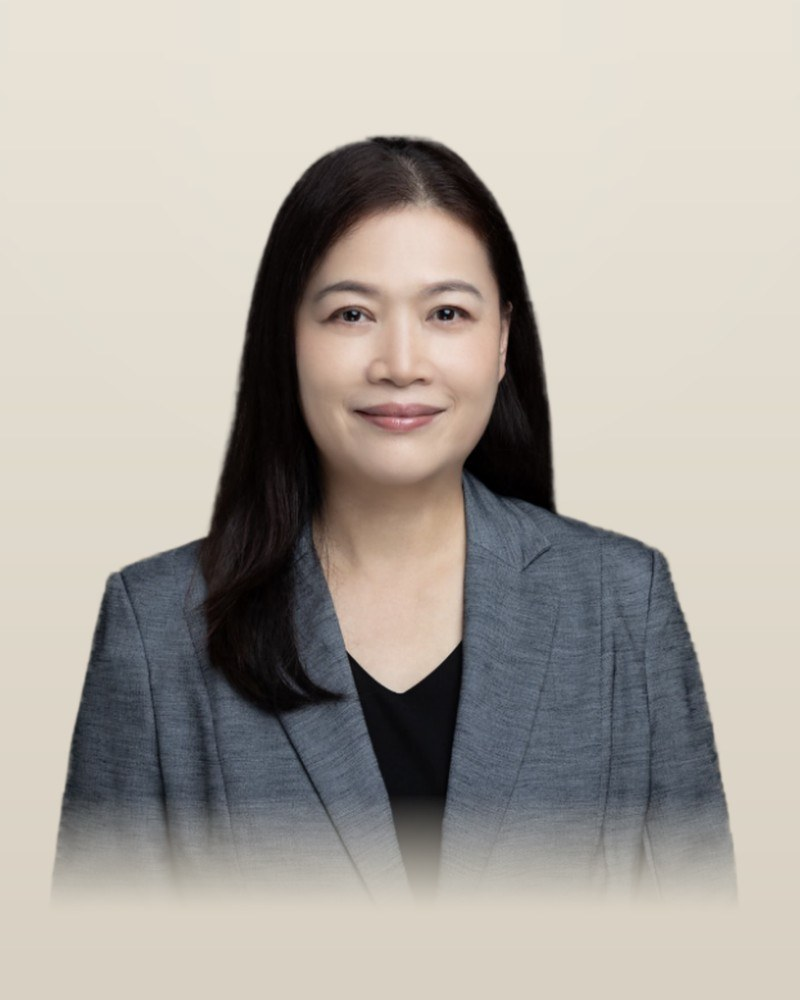
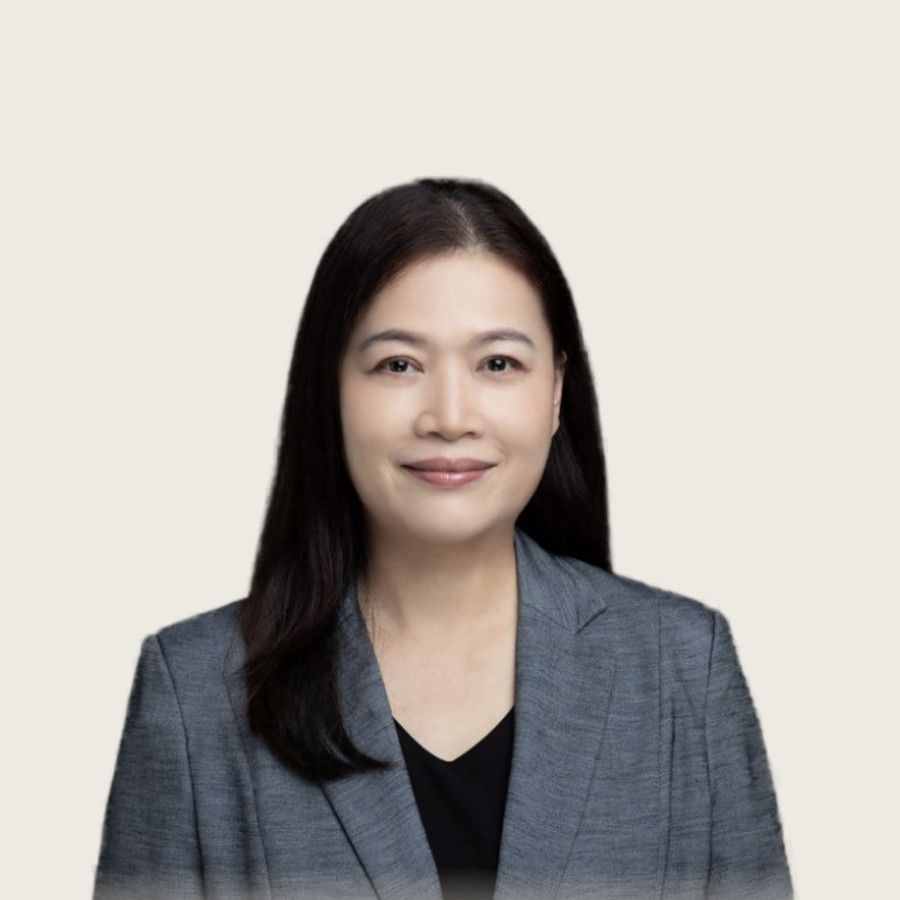
Team page: full roster as one unified set, grouped by region (#39)
* Add Amsterdam team + unify all team portraits into one set

Add Robbert-Jan, Leonard and Max (Amsterdam) to the roster, and bring the
whole team into a single cohesive treatment: every portrait is cut out of
its original (mismatched) background and placed on brand sand, with face
size and eye-line normalised so the grid reads as one set across Hong Kong
and Amsterdam. Photos drop into the existing /company TeamSection, which
groups by location automatically.

Claude-Session: https://claude.ai/code/session_012sUTwtPdH11qSoivRLDWgW

* Team: switch to circular avatars for a uniform roster

Round everyone the same way: swap the 4:5 portrait cards for face-centred
circular avatars (square source images, normalised face size and eye-line,
on brand sand with a subtle ring). The circle crop hides each person's
differing shoulders/crop, so the whole team reads as one tidy set.

Claude-Session: https://claude.ai/code/session_012sUTwtPdH11qSoivRLDWgW

* Team: add sales team, group by region, fix two circle crops

- Add Bo Gyi (Europe), Gino (Eastern Europe) and Oisin (United States),
  cut out and normalised on brand sand like the rest.
- Group the roster by sales region instead of office: Hong Kong,
  Netherlands, Europe, Eastern Europe, Barcelona, United States.
- Tighten the circle framing for Robbert-Jan and Leonard.

Still to add once photos arrive: Judith (Barcelona), Iris and Marieke
(Netherlands), Nancy (Europe), and Jasmijn (Asa Matcha, TBC). Sales-team
[…]

diff --git a/src/data/trust.ts b/src/data/trust.ts
@@ -31,9 +31,23 @@ export const TEAM: TeamMember[] = [
   { name: "Fannie", role: "Sourcing", photo: "/team/fannie.jpg", location: "Hong Kong" },
   { name: "Candy", role: "Partnerships", photo: "/team/candy.jpg", location: "Hong Kong" },
   { name: "Lucinda", role: "Quality control", photo: "/team/lucinda.jpg", location: "Hong Kong" },
-  // TODO (Leonard to supply): remaining team + Amsterdam / Los Angeles people,
-  // with better portraits. e.g.
-  // { name: "…", role: "…", photo: "/team/….jpg", location: "Amsterdam" },
+  { name: "Robbert-Jan", role: "Sales, consulting & strategy", photo: "/team/robbert-jan.jpg", location: "Netherlands" },
+  { name: "Leonard", role: "Digital strategy & operations", photo: "/team/leonard.jpg", location: "Netherlands" },
+  { name: "Max", role: "Sales & supply chain", photo: "/team/max.jpg", location: "Netherlands" },
+  { name: "Iris", role: "Sales", photo: "/team/iris.jpg", location: "Netherlands" },
+  { name: "Marieke", role: "Sales", photo: "/team/marieke.jpg", location: "Netherlands" },
+  { name: "Bo Gyi", role: "Sales", photo: "/team/bo-gyi.jpg", location: "Europe" },
+  { name: "Nancy", role: "Sales", photo: "/team/nancy.jpg", location: "Europe" },
+  { name: "Gino", role: "Sales", photo: "/team/gino.jpg", location: "Eastern Europe" },
+  { name: "Judith", role: "Sales", photo: "/team/judith.jpg", location: "Barcelona" },
+  { name: "Oisin", role: "Sales", photo: "/team/oisin.jpg", location: "United States" },
+  // Jasmijn (Asa Matcha) is held pending confirmation whether she belongs on
+  // the SFP team page. Sales-team roles are placeholders ("Sales") pending
+  // real titles.
+  //
+  // All portraits share one treatment: cut out and placed on brand sand, with
+  // face size and eye-line normalised, so the roster reads as one set. The
+  // section groups by `location`; LOCATION_ORDER in TeamSection sets the order.
 ];
 
 // Certifications — official marks supplied by SFP.

diff --git a/src/components/TeamSection.tsx b/src/components/TeamSection.tsx
@@ -14,7 +14,14 @@ function Silhouette() {
 }
 
 // Group the roster by operating location, in a stable, sensible order.
-const LOCATION_ORDER = ["Hong Kong", "Amsterdam", "Los Angeles"];
+const LOCATION_ORDER = [
+  "Hong Kong",
+  "Netherlands",
+  "Europe",
+  "Eastern Europe",
+  "Barcelona",
+  "United States",
+];
 function groupByLocation(members: TeamMember[]): { location: string; members: TeamMember[] }[] {
   const byLoc = new Map<string, TeamMember[]>();
   for (const m of members) {
@@ -62,15 +69,15 @@ export function TeamSection({ members }: { members: TeamMember[] }) {
             <div className="grid grid-cols-2 gap-x-6 gap-y-10 sm:grid-cols-3 lg:grid-cols-4">
               {g.members.map((m, i) => (
                 <Reveal key={`${m.name}-${i}`} delay={(i % 4) * 0.05}>
-                  <figure>
-                    <div className="relative aspect-[4/5] w-full overflow-hidden rounded-2xl bg-sand">
+                  <figure className="flex flex-col items-center text-center">
+                    <div className="relative aspect-square w-full max-w-[190px] overflow-hidden rounded-full bg-sand ring-1 ring-stone/10">
                       {m.photo ? (
-                        <Image src={m.photo} alt={m.name} fill className="object-cover" sizes="(min-width: 1024px) 22vw, 45vw" />
+                        <Image src={m.photo} alt={m.name} fill className="object-cover" sizes="(min-width: 1024px) 190px, 40vw" />
                       ) : (
                         <Silhouette />
                       )}
                     </div>
-                    <figcaption className="mt-3">
+                    <figcaption className="mt-4">
                       <p className="display text-lg leading-tight text-green">{m.name}</p>
                       <p className="mono mt-1 text-[11px] uppercase tracking-wide text-stone/55">{tx(m.role)}</p>
                     </figcaption>
